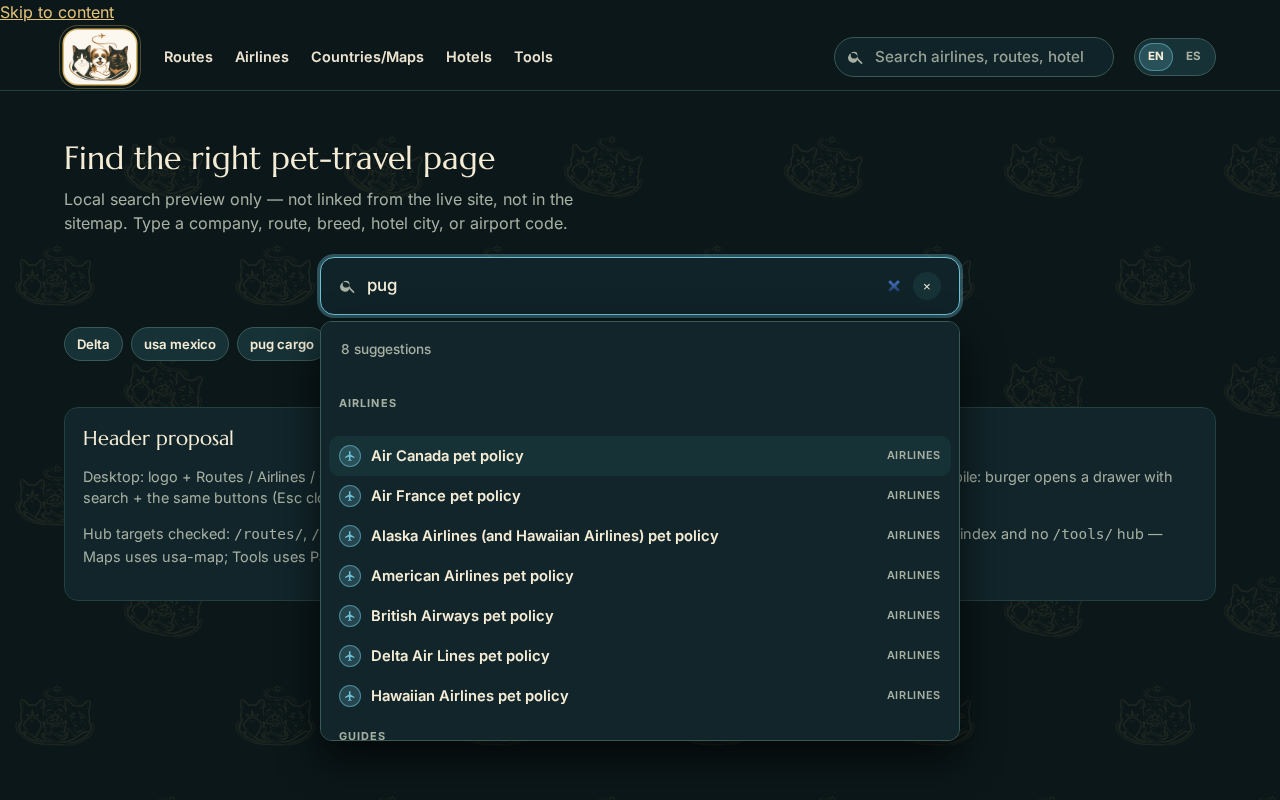
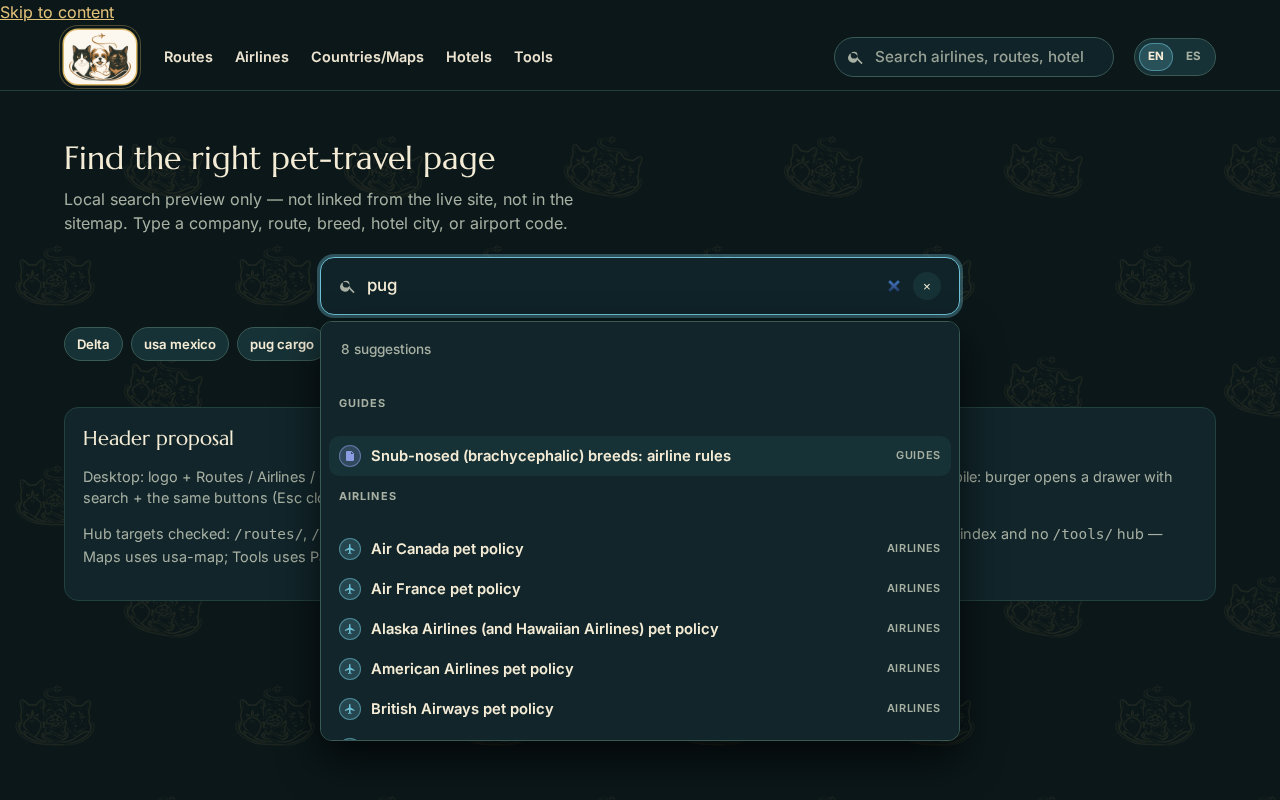
preview(search): order suggestion groups by best score
Keeps type grouping but surfaces Guides (snub-nosed) above Airlines for
breed queries like pug. Local preview only.

diff --git a/site/assets/site-search.js b/site/assets/site-search.js
@@ -198,13 +198,20 @@
 
   function group(results) {
     var map = Object.create(null);
-    var order = [];
+    var best = Object.create(null);
     results.forEach(function (r) {
       var y = r.page.y || "Guides";
-      if (!map[y]) { map[y] = []; order.push(y); }
+      if (!map[y]) map[y] = [];
       map[y].push(r);
+      if (best[y] == null || r.score > best[y]) best[y] = r.score;
     });
-    order.sort(function (a, b) { return TYPE_ORDER.indexOf(a) - TYPE_ORDER.indexOf(b); });
+    // Prefer the type that holds the strongest hit (so exact "pug" → Guides before Airlines)
+    var order = Object.keys(map);
+    order.sort(function (a, b) {
+      var db = (best[b] || 0) - (best[a] || 0);
+      if (db) return db;
+      return TYPE_ORDER.indexOf(a) - TYPE_ORDER.indexOf(b);
+    });
     return order.map(function (y) { return { type: y, items: map[y] }; });
   }
 

diff --git a/static/assets/site-search.js b/static/assets/site-search.js
@@ -198,13 +198,20 @@
 
   function group(results) {
     var map = Object.create(null);
-    var order = [];
+    var best = Object.create(null);
     results.forEach(function (r) {
       var y = r.page.y || "Guides";
-      if (!map[y]) { map[y] = []; order.push(y); }
+      if (!map[y]) map[y] = [];
       map[y].push(r);
+      if (best[y] == null || r.score > best[y]) best[y] = r.score;
     });
-    order.sort(function (a, b) { return TYPE_ORDER.indexOf(a) - TYPE_ORDER.indexOf(b); });
+    // Prefer the type that holds the strongest hit (so exact "pug" → Guides before Airlines)
+    var order = Object.keys(map);
+    order.sort(function (a, b) {
+      var db = (best[b] || 0) - (best[a] || 0);
+      if (db) return db;
+      return TYPE_ORDER.indexOf(a) - TYPE_ORDER.indexOf(b);
+    });
     return order.map(function (y) { return { type: y, items: map[y] }; });
   }
 
